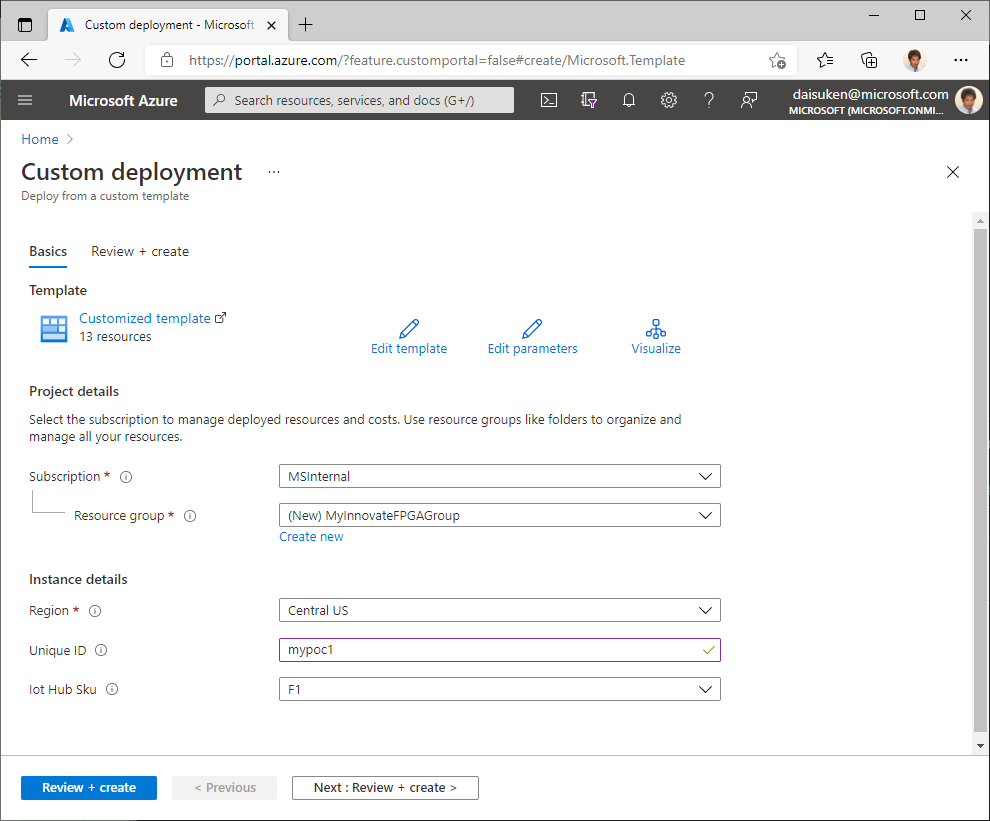
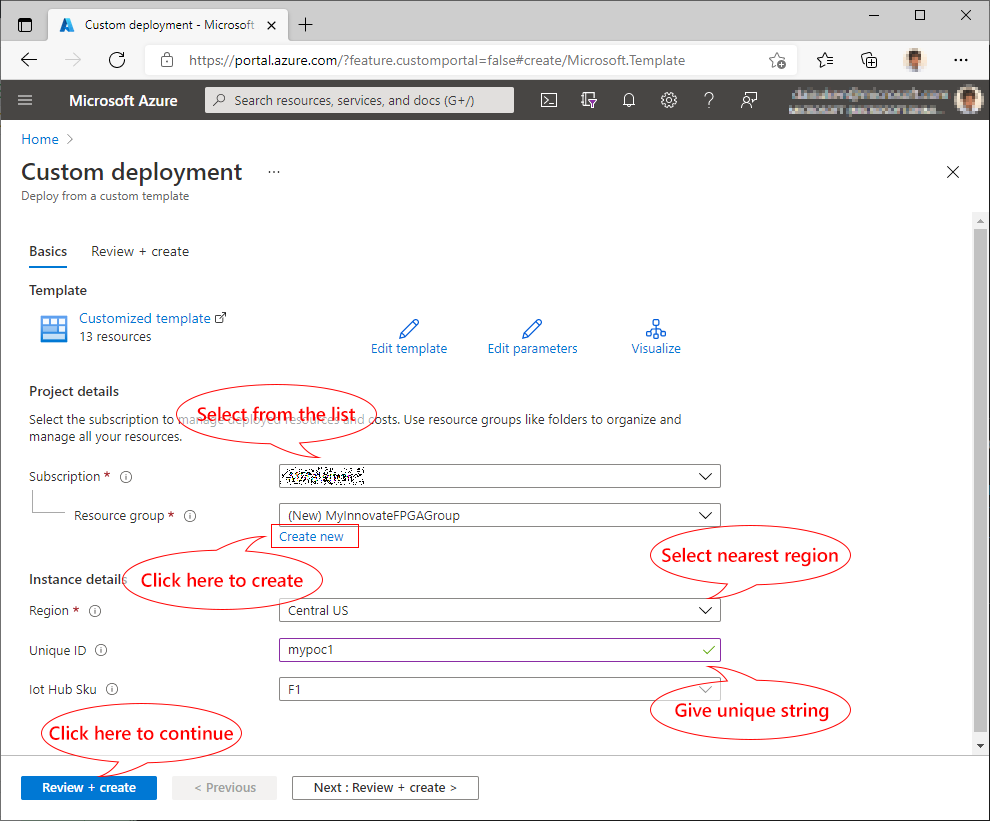
Update image files

diff --git a/PaaS-Deploy.md b/PaaS-Deploy.md
@@ -23,27 +23,31 @@ With this sample solution, you can perform basic IoT operations:
 - Visualize telemetry (messages) from the device in Web UI
 - Visualize device events such as device connect and disconnect in Web UI  
 
-## 1. Click **Deploy to Azure** button below  
+## 1. Start deploying Azure IoT Services
+
+Click **Deploy to Azure** button below.  The button will take you to Azure Portal and loads [Azure Resource Manager (ARM) template](https://docs.microsoft.com/azure/azure-resource-manager/templates/overview).
 
 > [!TIP]  
-> Right click the button below and select **Open link in new tab** or **Open lin in new window**
+> https://portal.azure.com is called **Azure Portal** which is a web-based, unified GUI tool where you can monitor and manage Azure services.
 
 [![Deploy to Azure](https://aka.ms/deploytoazurebutton)](https://portal.azure.com/#create/Microsoft.Template/uri/https%3A%2F%2Fraw.githubusercontent.com%2Fdaisukeiot%2FInnovateFPGA2021%2Fmain%2Fazuredeploy.json)
 
 > [!TIP]  
-> https://portal.azure.com is called **Azure Portal**.  In Azure Portal, you can 
+> Right click the button below and select **Open link in new tab** or **Open lin in new window**
 
-## 2. Configure Details  
+## 2. Basic settings for your solution
+
+Each solution requires a few unique settings and parameters.  Please provide information to customize your solution.
+
+| Setting        | Description | Example|
+|----------------|-------------|--------|
+| Subscription   | Select your Azure subscription from the list.  If you do not have one, please sign up [free subscription](https://azure.microsoft.com/free/). |                                |
+| Resource Group | Resource group is a way to organize resources (services).  To learn more visit [here](/azure/azure-resource-manager/management/manage-resource-groups-portal).  Create new resource group by clicking `Create new`.                                   | MyInnovateFPGAGroup            |
+| Region         | Select nearest location.  To learn more, visit [here](https://azure.microsoft.com/global-infrastructure/geographies/#overview).                                                                                                                       | West US 2 for Pacific Timezone |
+| Unique ID      | Default names given to all resources are InnovateFPGA-&lt;ServiceName&gt;-&lt;Your Unique ID&gt;.  (E.g. InnovateFPGA-IoTHub-&lt;Unique Id&gt;)  Since some services require globally unique names so please make it unique, or accept random string. | YourName01                     |
+| IoT Hub Sku    | If you plan to send more than 8000 messages per day, please select S1.  S1 will cost you $25/month.  Please see [Azure IoT Hub pricing page](https://azure.microsoft.com/pricing/details/iot-hub/) for more details.                                  |                                |
 
 ![PaaS02](images/PaaS-02.png)
-
-| Setting        | Description                                                                                                                                                                    | Example    |
-|----------------|--------------------------------------------------------------------------------------------------------------------------------------------------------------------------------|------------|
-| Subscription   | Select your Azure subscription from the list.                                                                                                                                  |            |
-| Resource Group | Resource group is a way to organize resources (services).  To learn more visit [here](/azure/azure-resource-manager/management/manage-resource-groups-portal).  Create new resource group by clicking `Create new`.| MyInnovateFPGAGroup           |
-| Region         | Select nearest location.  To learn more, visit [here](https://azure.microsoft.com/global-infrastructure/geographies/#overview).                                                                                                                                                       | West US 2 for Pacific Timezone           |
-| Unique ID      | Default names given to all resources are InnovateFPGA-&lt;ServiceName&gt;-&lt;Your Unique ID&gt;.  (E.g. InnovateFPGA-IoTHub-&lt;Unique Id&gt;)  Since some services require globally unique names so please make it unique, or accept random string. | YourName01 |
-| IoT Hub Sku    | If you plan to send more than 8000 messages per day, please select S1.  S1 will cost you $25/month.  Please see [Azure IoT Hub pricing page](https://azure.microsoft.com/pricing/details/iot-hub/) for more details.                                                                           |            |
 
 ## 3. Review and start deployment
 
